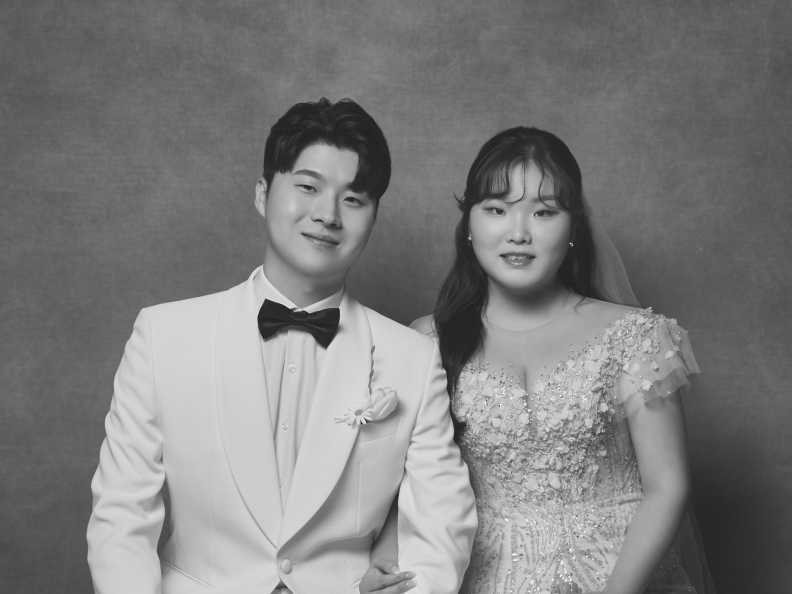
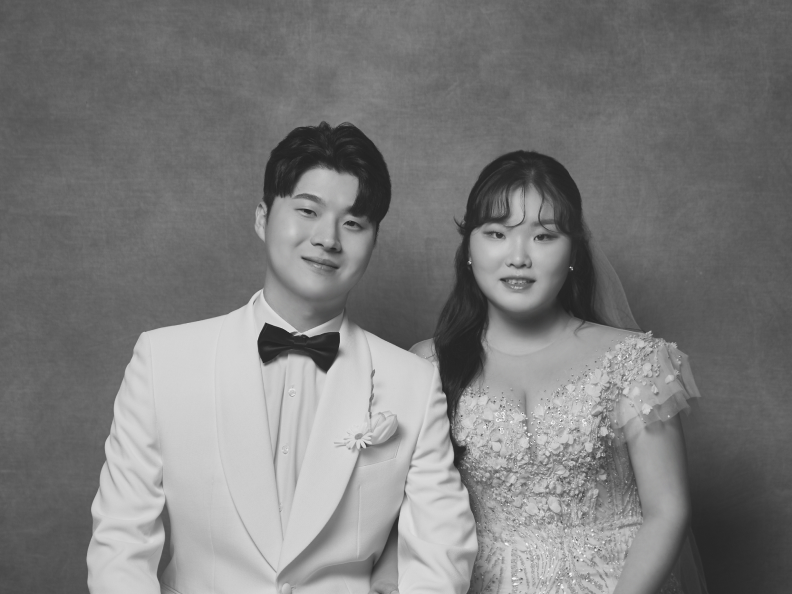
수정

diff --git a/index.html b/index.html
@@ -16,7 +16,7 @@
   <meta property="og:url" content="https://mo46.luvle.co.kr" />
   <meta property="og:title" content="김원민 ♥ 이지민의 결혼식에 초대합니다." />
   <meta property="og:description" content="2025년 3월 8일 토요일♡" />
-  <meta property="og:image" content="https://i.imgur.com/xHvO6xO.png" />
+  <meta property="og:image" content="https://i.imgur.com/5tpCA8A.png" />
   <meta property="og:site_name" content="김원민 ♥ 이지민의 결혼식에 초대합니다." />
   <script src="https://cdn.tailwindcss.com"></script>
   <link rel="stylesheet" type="text/css" href="style.css" />
